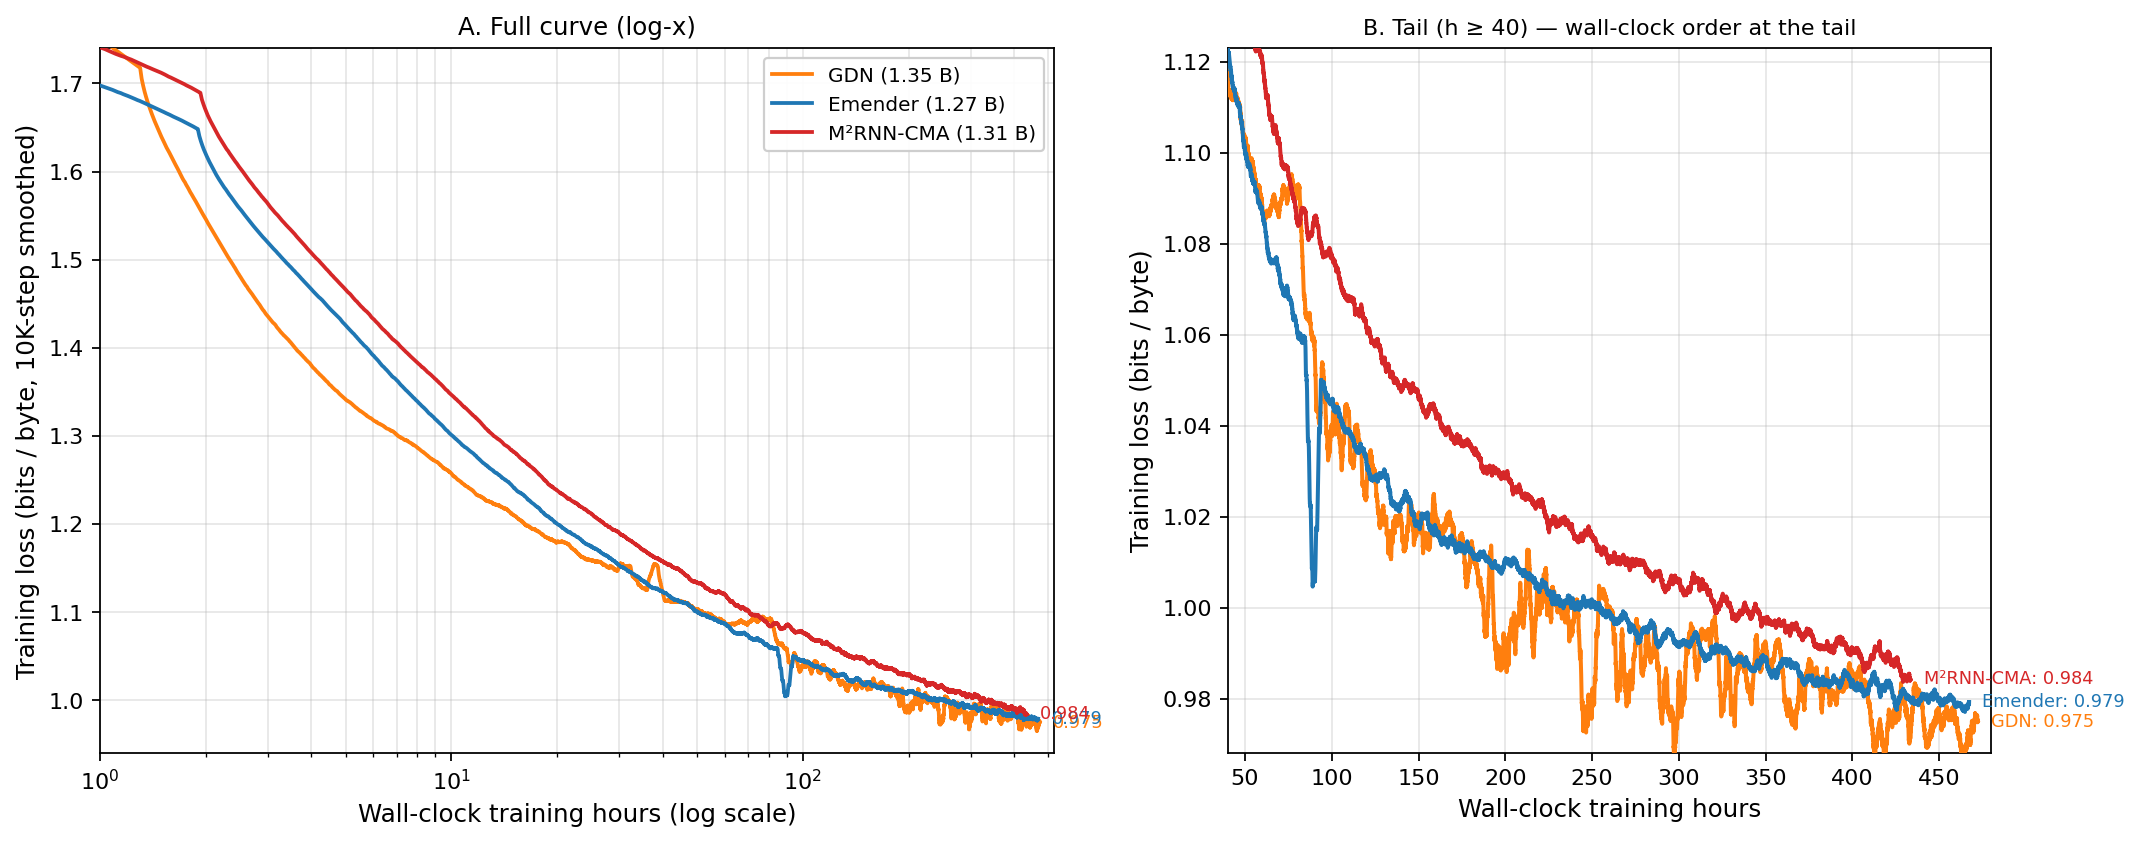
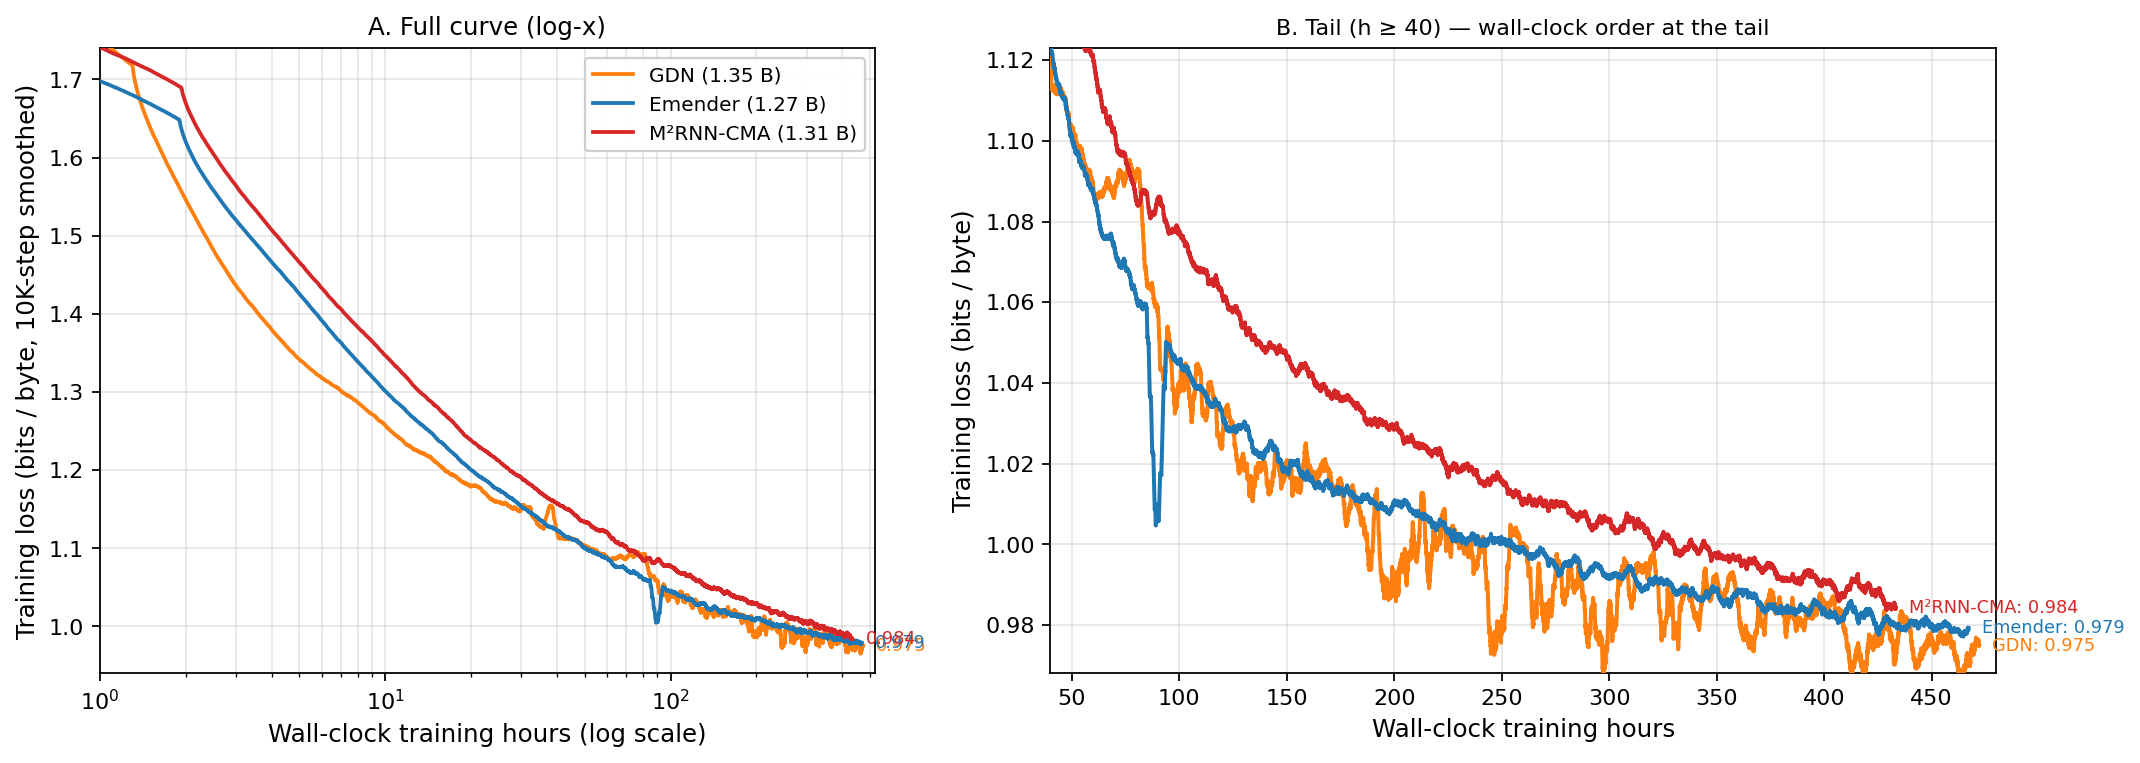
feat: figure2-racer-panel-balance-polish (agent-442)
Squash-merged from worktree branch wg/agent-442/figure2-racer-panel-balance-polish

diff --git a/paper/results/figure_2/plot_normalized.py b/paper/results/figure_2/plot_normalized.py
@@ -83,7 +83,7 @@ def load(path: Path):
 
 def main():
     fig, (axA, axB) = plt.subplots(
-        1, 2, figsize=(13.5, 5.4), gridspec_kw={"width_ratios": [1.25, 1.0]}
+        1, 2, figsize=(13.5, 4.9), gridspec_kw={"width_ratios": [1.0, 1.22]}
     )
 
     data = {name: load(FILES[name]) for name in ORDER}